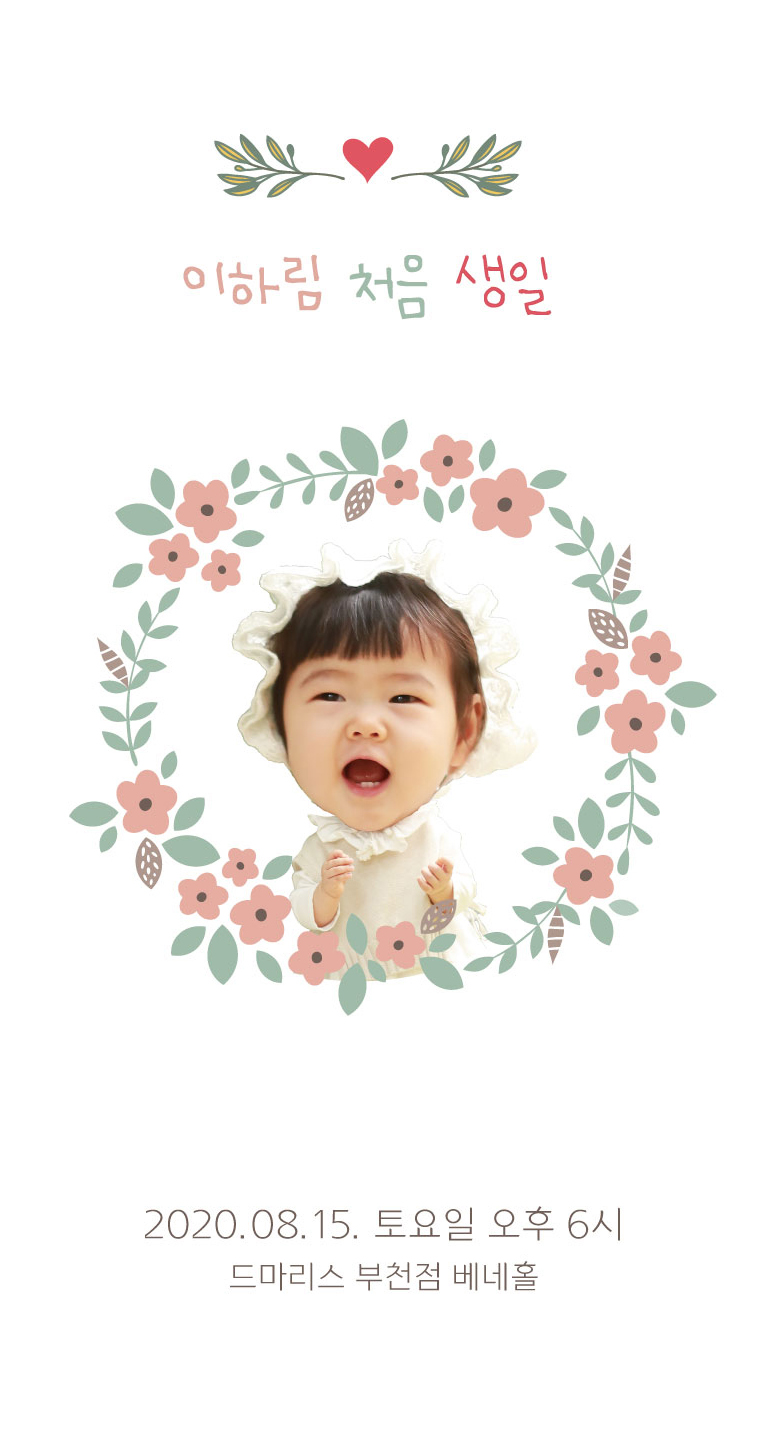
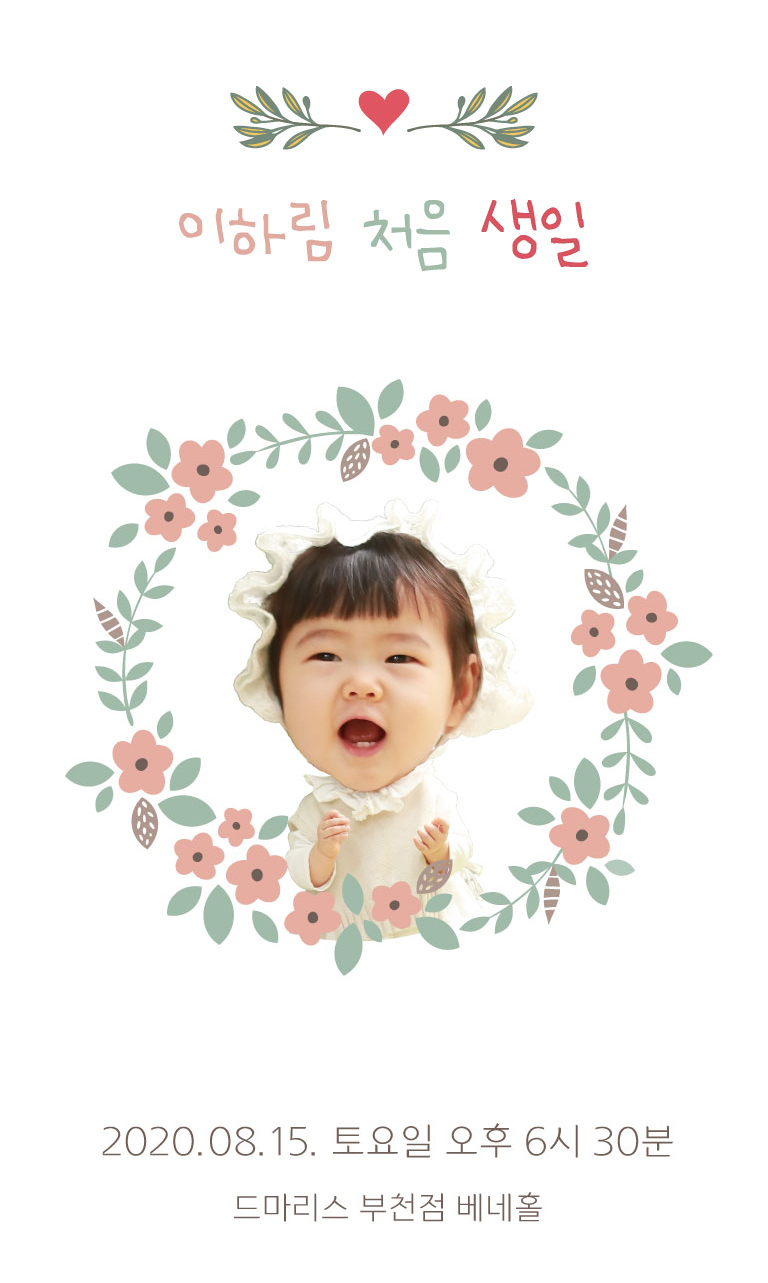
오류 수정

diff --git a/invitation/harim/script/birthday.js b/invitation/harim/script/birthday.js
@@ -64,36 +64,8 @@ $(() => {
           }
         });
       },
+  },
 
-    adressSearch(map) {
-      // 주소-좌표 변환 객체를 생성합니다
-      var geocoder = new kakao.maps.services.Geocoder();
-
-      // 주소로 좌표를 검색합니다
-      geocoder.addressSearch('경기 부천시 길주로 71 리파인빌 3층', function(result, status) {
-
-          // 정상적으로 검색이 완료됐으면
-           if (status === kakao.maps.services.Status.OK) {
-
-              var coords = new kakao.maps.LatLng(result[0].y, result[0].x);
-
-              // 결과값으로 받은 위치를 마커로 표시합니다
-              var marker = new kakao.maps.Marker({
-                  map: map,
-                  position: coords
-              });
-
-              // 인포윈도우로 장소에 대한 설명을 표시합니다
-              var infowindow = new kakao.maps.InfoWindow({
-                  content: '드마리스 부천점<br>베네홀'
-              });
-              infowindow.open(map, marker);
-
-              // 지도의 중심을 결과값으로 받은 위치로 이동시킵니다
-              map.setCenter(coords);
-          }
-      });
-    },
 
     click: {
       photo(e) {
@@ -129,24 +101,53 @@ $(() => {
       }
     },
 
-    kakaoNavi() {
-      // 주소-좌표 변환 객체를 생성합니다
-      var geocoder = new kakao.maps.services.Geocoder();
+  adressSearch(map) {
+  // 주소-좌표 변환 객체를 생성합니다
+  var geocoder = new kakao.maps.services.Geocoder();
 
-      // 주소로 좌표를 검색합니다
-      geocoder.addressSearch('경기 부천시 길주로 71 리파인빌 3층', function(result, status) {
+  // 주소로 좌표를 검색합니다
+  geocoder.addressSearch('경기 부천시 길주로 71 리파인빌 3층', function(result, status) {
 
-          // 정상적으로 검색이 완료됐으면
-           if (status === kakao.maps.services.Status.OK) {
-              Kakao.Navi.start({
-                  name: "드마리스 부천점",
-                  x: result[0].x,
-                  y: result[0].y,
-                  coordType: 'wgs84'
-              });
-          }
-      });
-    }
+      // 정상적으로 검색이 완료됐으면
+       if (status === kakao.maps.services.Status.OK) {
+
+          var coords = new kakao.maps.LatLng(result[0].y, result[0].x);
+
+          // 결과값으로 받은 위치를 마커로 표시합니다
+          var marker = new kakao.maps.Marker({
+              map: map,
+              position: coords
+          });
+
+          // 인포윈도우로 장소에 대한 설명을 표시합니다
+          var infowindow = new kakao.maps.InfoWindow({
+              content: '드마리스 부천점<br>베네홀'
+          });
+          infowindow.open(map, marker);
+
+          // 지도의 중심을 결과값으로 받은 위치로 이동시킵니다
+          map.setCenter(coords);
+      }
+  });
+  },
+
+  kakaoNavi() {
+    // 주소-좌표 변환 객체를 생성합니다
+    var geocoder = new kakao.maps.services.Geocoder();
+
+    // 주소로 좌표를 검색합니다
+    geocoder.addressSearch('경기 부천시 길주로 71 리파인빌 3층', function(result, status) {
+
+        // 정상적으로 검색이 완료됐으면
+         if (status === kakao.maps.services.Status.OK) {
+            Kakao.Navi.start({
+                name: "드마리스 부천점",
+                x: result[0].x,
+                y: result[0].y,
+                coordType: 'wgs84'
+            });
+        }
+    });
   },
 
     kakaotalk() {

diff --git a/invitation/harim/index.html b/invitation/harim/index.html
@@ -42,7 +42,7 @@
             </div>
             <div class="content_text">
               2020년 8월 15일 토요일<br/>
-              오후 6시
+              오후 6시 30분
             </div>
             <div id="dDay" class="text_green"></div>
 
@@ -73,10 +73,10 @@
             <table class="text_right">
               <colgroup><col width="70%"/><col/></colgroup>
               <tr>
-                  <td class="sns_icon">카카오내비 안내 <img data-target="navi" src="image/navi.jpg"/></td>
+                  <td class="sns_icon"><b>카카오내비 안내 </b><img data-target="navi" src="image/navi.jpg"/></td>
               </tr>
               <tr>
-                  <td class="sns_icon">카카오톡 공유 <img data-target="kakaotalk" src="image/talk.jpg"/></td>
+                  <td class="sns_icon"><b>카카오톡 공유 </b><img data-target="kakaotalk" src="image/talk.jpg"/></td>
               </tr>
             </table>
 
@@ -89,7 +89,24 @@
               <img src="image/2.jpg"/>
               <img src="image/3.jpg"/>
               <img src="image/4.jpg"/>
+              <img src="image/5.jpg"/>
+              <img src="image/6.jpg"/>
+              <!-- <img src="image/7.jpg"/>
+              <img src="image/8.jpg"/> -->
+              <img src="image/9.jpg"/>
+              <img src="image/10.jpg"/>
+              <img src="image/11.jpg"/>
+              <img src="image/12.jpg"/>>
+              <img src="image/13.jpg"/>
+              <img src="image/14.jpg"/>
+              <img src="image/15.jpg"/>
+              <img src="image/16.jpg"/>
+              <img src="image/17.jpg"/>
+              <img src="image/18.jpg"/>
+              <img src="image/19.jpg"/>
+              <img src="image/못난이완성1.png"/>
             </div>
+
 
           </div>
         </div>

diff --git a/invitation/siyoon/index.html b/invitation/siyoon/index.html
@@ -81,10 +81,10 @@
             <table class="text_right">
               <colgroup><col width="70%"/><col/></colgroup>
               <tr>
-                  <td class="sns_icon">카카오내비 안내 <img data-target="navi" src="image/navi.jpg"/></td>
+                  <td class="sns_icon"><b>카카오내비 안내 </b><img data-target="navi" src="image/navi.jpg"/></td>
               </tr>
               <tr>
-                  <td class="sns_icon">카카오톡 공유 <img data-target="kakaotalk" src="image/talk.jpg"/></td>
+                  <td class="sns_icon"><b>카카오톡 공유 </b><img data-target="kakaotalk" src="image/talk.jpg"/></td>
               </tr>
             </table>
 

diff --git a/invitation/siyoon/css/birthday.css b/invitation/siyoon/css/birthday.css
@@ -15,7 +15,8 @@ html, body {margin:0 auto; padding:0 auto; width:100%; height:100%; font-size:1e
 .text_m {font-family: 'Nanum Myeongjo', serif;}
 .title {font-family: 'Nanum Myeongjo', serif; color:#8bba7c; font-size: 1.3em; margin-bottom:10px; padding-top:10%; border-top:solid; border-width:1px;}
 
-.sns_icon img {width:20px; height:20px; margin:3px;}
+.sns_icon {font-size:0.8em; }
+.sns_icon img {width:20px; height:20px; margin:3px; vertical-align:middle; cursor:pointer;}
 
 #main_image {width:100%; vertical-align:middle;}
 #main_text {margin:20% 0% 20% 0%; padding:5%; border-left:solid; border-left-width:5px; border-color: #8bba7c;}

diff --git a/invitation/harim/css/birthday.css b/invitation/harim/css/birthday.css
@@ -17,7 +17,7 @@ html, body {margin:0 auto; padding:0 auto; width:100%; height:100%; font-size:1e
 .title img {width:26px; height:26px; vertical-align:-5; margin:0px 10px;}
 
 .sns_icon {font-size:0.8em; }
-.sns_icon img {width:20px; height:20px; margin:3px; vertical-align:middle;}
+.sns_icon img {width:20px; height:20px; margin:3px; vertical-align:middle; cursor:pointer;}
 
 #main_image {width:100%; vertical-align:middle;}
 #main_text {margin:20% 0% 20% 0%; padding:5%; border-left:solid; border-left-width:5px; border-color: #e84f52;}
